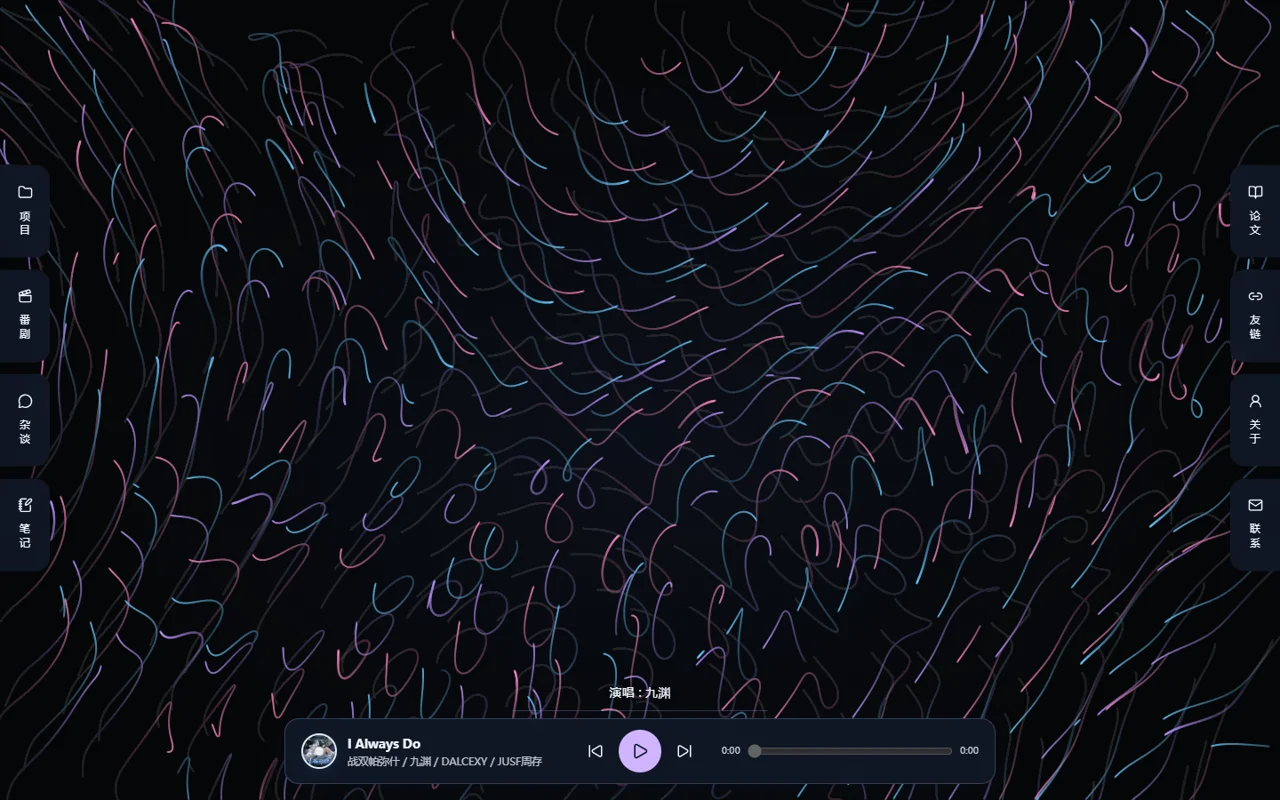
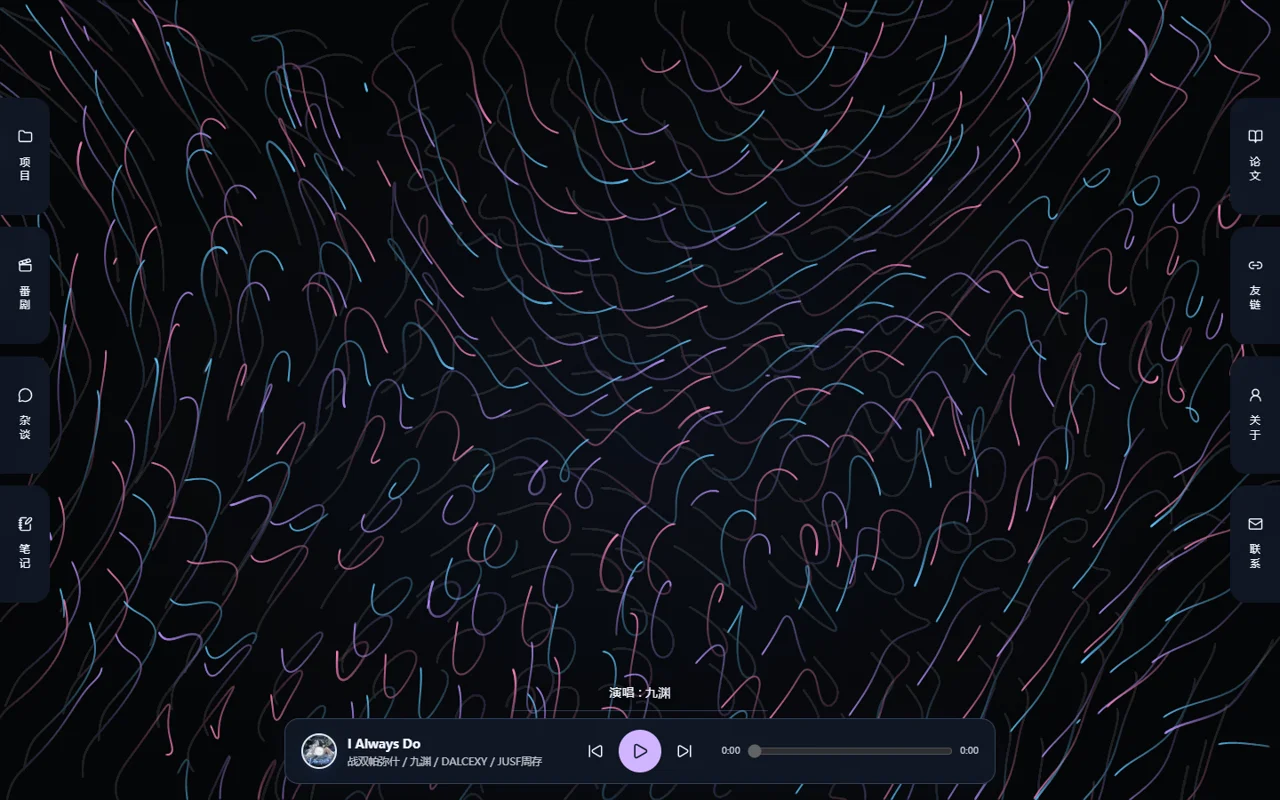
恢复首页论文侧栏原有展开交互

diff --git a/components/HomeScene.tsx b/components/HomeScene.tsx
@@ -71,7 +71,7 @@ export default function HomeScene({
     closeTimer.current = setTimeout(() => {
       if (pinned.current || document.querySelector("dialog[open]")) return
       const hovered = root.current?.querySelector(
-        `[data-edge-trigger="${id}"]:hover, [data-home-preview="${id}"]:hover`,
+        `[data-edge-trigger="${id}"]:hover, [data-home-preview="${id}"] [data-edge-summary]:hover, [data-home-preview="${id}"] [data-paper-summary]:hover`,
       )
       const focused = (document.activeElement as Element | null)?.closest(
         `[data-home-edge="${id}"]`,
@@ -84,7 +84,7 @@ export default function HomeScene({
   useEffect(() => {
     const outside = (event: PointerEvent) => {
       const target = event.target as Element
-      if (!target.closest("[data-home-edge], dialog, [data-home-music]")) {
+      if (!target.closest("[data-home-edge], dialog")) {
         clearTimeout(openTimer.current)
         clearTimeout(closeTimer.current)
         pinned.current = false
@@ -184,19 +184,26 @@ export default function HomeScene({
                   </button>
                   <div
                     id={`home-${id}-panel`}
-                    className={`${styles.preview} ${id === "contact" ? styles.contactPanel : ""}`}
+                    className={styles.preview}
                     data-home-preview={id}
                     data-open={expanded}
                     // Keep the native paper dialogs outside inert/aria-hidden trees.
                     inert={id !== "papers" && !expanded}
                     aria-hidden={id !== "papers" && !expanded ? true : undefined}
                     onPointerDownCapture={(event) => {
-                      if (!(event.target as Element).closest("dialog")) keyboardSide.current = null
+                      if (
+                        (event.target as Element).closest(
+                          "[data-edge-summary], [data-paper-summary]",
+                        )
+                      )
+                        keyboardSide.current = null
                     }}
                     onKeyDownCapture={(event) => {
                       if (
                         (event.key === "Enter" || event.key === " ") &&
-                        !(event.target as Element).closest("dialog")
+                        (event.target as Element).closest(
+                          "[data-edge-summary], [data-paper-summary]",
+                        )
                       )
                         keyboardSide.current = id
                     }}
@@ -206,6 +213,7 @@ export default function HomeScene({
                         href={href === "/blog" ? blogHref : href}
                         prefetch={false}
                         className={styles.previewLink}
+                        data-edge-summary
                         aria-label={`进入${name}`}
                       >
                         {expanded && (
@@ -226,7 +234,9 @@ export default function HomeScene({
                         }}
                       />
                     ) : (
-                      <ProfileActions />
+                      <div className={styles.contactPanel} data-edge-summary>
+                        <ProfileActions />
+                      </div>
                     )}
                   </div>
                 </aside>

diff --git a/components/HomeScene.module.css b/components/HomeScene.module.css
@@ -16,7 +16,9 @@
   --scene-muted: var(--site-muted);
   --scene-accent: var(--site-accent);
   --scene-line: var(--site-line);
-  --edge-width: min(296px, calc((100vw - 128px) / 2));
+  --edge-width: clamp(184px, 18.3vw, 264px);
+  --tab-height: clamp(64px, 16dvh, 132px);
+  --edge-gap: clamp(6px, 1.5dvh, 14px);
   --scene-surface: var(--site-glass);
   --home-break: 0;
   position: fixed;
@@ -43,10 +45,11 @@
 .rail {
   position: absolute;
   z-index: 6;
-  top: 46%;
-  translate: 0 -50%;
+  top: max(16px, calc((100dvh - var(--tab-height) * 4 - var(--edge-gap) * 3 - 112px) / 2));
   display: grid;
-  gap: clamp(6px, 1.5dvh, 14px);
+  grid-template-columns: 56px;
+  grid-auto-rows: var(--tab-height);
+  gap: var(--edge-gap);
   width: 56px;
   pointer-events: none;
 }
@@ -58,19 +61,28 @@
 }
 .edge {
   position: relative;
-  height: clamp(64px, 12dvh, 104px);
+  width: 56px;
+  height: var(--tab-height);
+  pointer-events: none;
 }
 .edge[data-open="true"] {
-  z-index: 1;
+  width: calc(var(--edge-width) + 56px);
+  height: max(var(--tab-height), calc(var(--edge-width) * 0.75));
+}
+.right .edge {
+  justify-self: end;
 }
 .tab {
   display: flex;
   flex-direction: column;
   justify-content: center;
   align-items: center;
-  gap: 12px;
+  gap: 14px;
+  position: absolute;
+  top: 0;
+  z-index: 2;
   width: 56px;
-  height: 100%;
+  height: var(--tab-height);
   padding: 0;
   color: inherit;
   background: var(--scene-surface);
@@ -79,50 +91,44 @@
   cursor: pointer;
   font-size: 12px;
   pointer-events: auto;
-  transition:
-    color 180ms ease,
-    background-color 180ms ease;
 }
 .tab > span {
   writing-mode: vertical-rl;
   letter-spacing: 0.3em;
 }
 .left .tab {
-  border-radius: 0 16px 16px 0;
+  left: 0;
+  border-radius: 0 18px 18px 0;
 }
 .right .tab {
-  border-radius: 16px 0 0 16px;
+  right: 0;
+  border-radius: 18px 0 0 18px;
 }
-.tab:hover,
-.tab[aria-expanded="true"] {
-  color: var(--scene-accent);
-  background: rgb(25 40 62 / 96%);
+.left .edge[data-open="true"] .tab {
+  left: var(--edge-width);
+}
+.right .edge[data-open="true"] .tab {
+  right: var(--edge-width);
 }
 .preview {
   position: absolute;
-  top: 50%;
+  top: 0;
+  z-index: 1;
   width: var(--edge-width);
-  opacity: 0;
   pointer-events: none;
-  transform: translate(-12px, -50%);
-  transition:
-    transform 180ms ease,
-    opacity 120ms ease;
 }
 .left .preview {
-  left: 56px;
+  left: 0;
 }
 .right .preview {
-  right: 56px;
-  transform: translate(12px, -50%);
+  right: 0;
 }
 .preview[data-open="true"] {
-  opacity: 1;
   pointer-events: auto;
-  transform: translate(0, -50%);
 }
 /* Hide only the paper cover, keeping both native dialogs available in the top layer. */
-.preview[data-open="false"] :global([data-paper-summary]) {
+.preview[data-open="false"] :global([data-paper-summary]),
+.preview[data-open="false"] :global([data-edge-summary]) {
   visibility: hidden;
   pointer-events: none;
 }
@@ -133,7 +139,14 @@
   display: block;
   aspect-ratio: 4 / 3;
   color: inherit;
-  border-radius: 12px;
+  border-radius: 12px 0 0 12px;
+}
+.left .previewLink,
+.left .previewLink > span {
+  border-radius: 0 12px 12px 0;
+}
+.previewLink img {
+  object-position: top;
 }
 .contactPanel {
   padding: 16px;

diff --git a/components/PaperMonitor.tsx b/components/PaperMonitor.tsx
@@ -9,7 +9,13 @@ import styles from "./PaperMonitor.module.css"
 export function SidebarPreview({ src, alt }: { src: string; alt: string }) {
   return (
     <span className={styles.summaryArt}>
-      <Image src={src} alt={alt} fill className="object-cover" sizes="296px" />
+      <Image
+        src={src}
+        alt={alt}
+        fill
+        className="object-cover"
+        sizes="(max-width: 1023px) 220px, 264px"
+      />
     </span>
   )
 }

diff --git a/components/PaperMonitor.module.css b/components/PaperMonitor.module.css
@@ -50,10 +50,7 @@
   display: block;
   aspect-ratio: 4 / 3;
   overflow: hidden;
-  border-radius: 12px;
-}
-.summaryArt img {
-  object-position: top;
+  border-radius: 12px 0 0 12px;
 }
 .summary:focus-visible {
   outline: 2px solid currentColor;

diff --git a/scripts/home-scene-preview.py b/scripts/home-scene-preview.py
@@ -112,8 +112,10 @@ with sync_playwright() as p:
         page.wait_for_timeout(3000)
         capture(page, 'home-preview')
         for entry in ['projects', 'papers', 'contact']:
-            page.locator(f'[data-edge-trigger={entry}]').hover()
+            trigger = page.locator(f'[data-edge-trigger={entry}]')
+            trigger.hover()
             page.wait_for_timeout(700)
+            expect(trigger).to_have_attribute('aria-expanded', 'true')
             capture(page, 'home-preview-' + entry)
         check('real homepage preview', {'music': page.get_by_role('region', name='音乐控制').inner_text(), 'pageErrors': errors})
         assert not errors, errors
@@ -135,9 +137,26 @@ with sync_playwright() as p:
                 bounds = [trigger.bounding_box() for trigger in rail.all()]
                 assert all(b and b['y'] >= 0 and b['y'] + b['height'] <= height and b['width'] >= 44 and b['height'] >= 44 for b in bounds)
                 assert all(a['y'] + a['height'] < b['y'] for a, b in zip(bounds, bounds[1:]))
-            for entry in ['projects', 'anime', 'chatter', 'blog', 'papers', 'friends', 'about', 'contact']:
+            # Moving directly between entries must retain the original hover behavior.
+            for entry in ['projects', 'papers', 'about']:
                 trigger = page.locator(f'[data-edge-trigger={entry}]')
                 trigger.hover()
+                expect(trigger).to_have_attribute('aria-expanded', 'true')
+                page.wait_for_timeout(200)
+                expect(trigger).to_have_attribute('aria-expanded', 'true')
+                assert page.locator('[data-edge-trigger][aria-expanded=true]').count() == 1
+                for other in page.locator('[data-edge-trigger][aria-expanded=false]').all():
+                    other_box = other.bounding_box()
+                    assert other_box['x'] >= -1 and other_box['x'] + other_box['width'] <= width + 1
+            page.mouse.move(width / 2, 20)
+            expect(trigger).to_have_attribute('aria-expanded', 'false')
+            for entry in ['projects', 'anime', 'chatter', 'blog', 'papers', 'friends', 'about', 'contact']:
+                trigger = page.locator(f'[data-edge-trigger={entry}]')
+                closed_tab = trigger.bounding_box()
+                trigger.hover()
+                if width == 1440:
+                    page.wait_for_timeout(150)
+                    expect(trigger).to_have_attribute('aria-expanded', 'false')
                 expect(trigger).to_have_attribute('aria-expanded', 'true')
                 assert page.locator('[data-edge-trigger][aria-expanded=true]').count() == 1
                 panel = page.locator(f'#home-{entry}-panel')
@@ -151,14 +170,34 @@ with sync_playwright() as p:
                 page.wait_for_timeout(200)
                 expect(trigger).to_have_attribute('aria-expanded', 'true')
                 b = panel.bounding_box()
-                assert b and b['x'] >= 0 and b['x'] + b['width'] <= width and b['y'] >= 0 and b['y'] + b['height'] <= height
+                assert b and b['x'] >= -1 and b['x'] + b['width'] <= width + 1 and b['y'] >= -1 and b['y'] + b['height'] <= height + 1, (entry, b)
                 tab = trigger.bounding_box()
-                assert abs(b['y'] + b['height'] / 2 - tab['y'] - tab['height'] / 2) < 1
+                expected_width = min(264, max(184, width * 0.183))
+                assert abs(b['width'] - expected_width) < 1
+                assert abs(b['y'] - tab['y']) < 1
+                if entry in ['projects', 'anime', 'chatter', 'blog']:
+                    assert abs(b['x']) < 1
+                    assert abs(tab['x'] - b['width']) < 1
+                else:
+                    assert abs(b['x'] + b['width'] - width) < 1
+                    assert abs(tab['x'] + tab['width'] - b['x']) < 1
+                assert abs(abs(tab['x'] - closed_tab['x']) - b['width']) < 1
                 if width == 1440:
                     capture(page, 'sidebar-' + entry)
+                # The unused strip beneath the moved tab must stay click-through.
+                if b['height'] > tab['height'] + 8:
+                    empty = {'x': tab['x'] + tab['width'] / 2, 'y': tab['y'] + tab['height'] + 4}
+                    assert page.evaluate("p => !document.elementFromPoint(p.x,p.y).closest('[data-home-edge]')", empty)
+                    page.mouse.move(empty['x'], empty['y'])
+                    expect(trigger).to_have_attribute('aria-expanded', 'false')
+                    trigger.hover()
+                    expect(trigger).to_have_attribute('aria-expanded', 'true')
                 page.mouse.move(width / 2, height - 150)
                 expect(trigger).to_have_attribute('aria-expanded', 'false')
-                # Clicking pins the same shared preview; clicking outside releases it.
+                assert abs(trigger.bounding_box()['x'] - closed_tab['x']) < 1
+                # Match the original paper flow: hover open, then click the moved tab to pin.
+                trigger.hover()
+                expect(trigger).to_have_attribute('aria-expanded', 'true')
                 trigger.click()
                 page.mouse.move(width / 2, height - 150)
                 page.wait_for_timeout(200)
@@ -178,6 +217,13 @@ with sync_playwright() as p:
                 page.keyboard.press('Tab')
             expect(page.locator('[data-edge-trigger=contact]')).to_have_attribute('aria-expanded', 'false')
             dock = page.locator('[data-home-music]')
+            paper_trigger = page.locator('[data-edge-trigger=papers]')
+            paper_trigger.hover()
+            expect(paper_trigger).to_have_attribute('aria-expanded', 'true')
+            paper_trigger.click()
+            page.mouse.move(width / 2, 20)
+            dock.locator('h2').click()
+            expect(page.locator('[data-edge-trigger=papers]')).to_have_attribute('aria-expanded', 'false')
             play = dock.get_by_role('button', name='播放', exact=True)
             expect(play).to_be_visible()
             b = dock.bounding_box()
@@ -188,9 +234,10 @@ with sync_playwright() as p:
             assert '场景测试曲 2' in dock.inner_text()
             dock.get_by_role('button', name='上一首', exact=True).click()
             seek = dock.get_by_role('slider', name='播放进度')
+            expect(seek).to_be_enabled()
             seek.focus()
             page.keyboard.press('ArrowRight')
-            assert float(seek.input_value()) > 0
+            expect(seek).not_to_have_value('0')
             expect(page.get_by_role('region', name='当前歌词')).to_be_visible()
             # Native two-level reading preserves focus and hover dismissal.
             trigger = page.locator('[data-edge-trigger=papers]')

diff --git a/docs/project/home-scene.md b/docs/project/home-scene.md
@@ -2,6 +2,10 @@
 
 ## 当前导航与音乐布局（2026-11-15）
 
+2026-11-16 交互纠正：八个入口直接沿用改造前论文侧栏的展开方式：封面贴住所在屏幕边缘，标签展开后向内移动到封面旁，两者顶部对齐；收起后标签回到边缘。恢复原来的 184–264px 自适应封面宽度、350ms 展开和 120ms 收起，仅按钮及真实内容参与指针判定，标签下方的空白继续穿透；点击固定、外部点击关闭、键盘焦点及论文两层阅读保护沿用原行为。四项导航的排布和底部音乐保持本次需求，较矮窗口仅压缩导航排布所需的标签高度。2026-11-15 的固定标签、居中悬浮卡片和整块浮层热区已撤回，不作为复用实现。
+
+本次以 `5517565` 的论文入口为对照，隔离验证通过 115 项测试、修改文件的 ESLint、Webpack 生产构建（247 页），以及 1440×900 常规动效、1280×800 / 1024×768 / 640×720 / 1024×480 减少动效的浏览器回归。新增检查实际贴边位置、标签内移/复位、连续悬停切换、空白穿透及音乐区域点击关闭；保留原来的悬停展开后点击标签固定和两层阅读焦点检查，0 个未捕获页面异常。修正截图已更新，完整证据保存在修正工作树的 `.sync/tmp-restored-paper-sidebar/`；真实音乐仅验证元数据，Safari、Node 22 和生产部署仍未验收。
+
 首页取消顶栏与音乐侧栏，左侧依次为「项目、番剧、杂谈、笔记」，右侧依次为「论文、友链、关于、联系」，各四个入口。八个入口共用原论文侧栏的交互：鼠标停留 350ms 展开，离开按钮与内容联合区域 120ms 收起；点击固定，外部点击或 Escape 关闭，键盘聚焦展开，Escape 归还触发按钮焦点。同时只展开一个入口，透明空白不捕获指针。
 
 六个页面入口与论文封面复用 `PaperMonitor.tsx` 的 `SidebarPreview`，展开时才加载 `public/page-previews/` 内的真实页面静态截图，点击后通过 Next Link 进入对应页面。笔记仍使用服务端解析的实际文章入口。截图只作页面预览，内容更新后按下方命令重新生成，不嵌入后台页面或额外场景；本地番剧服务不可用时，截图脚本从正式站的同一路径取景。论文保留原封面及两层阅读窗口，原生 dialog 不放进 inert/aria-hidden 容器；联系复用现有 `ProfileActions`。
